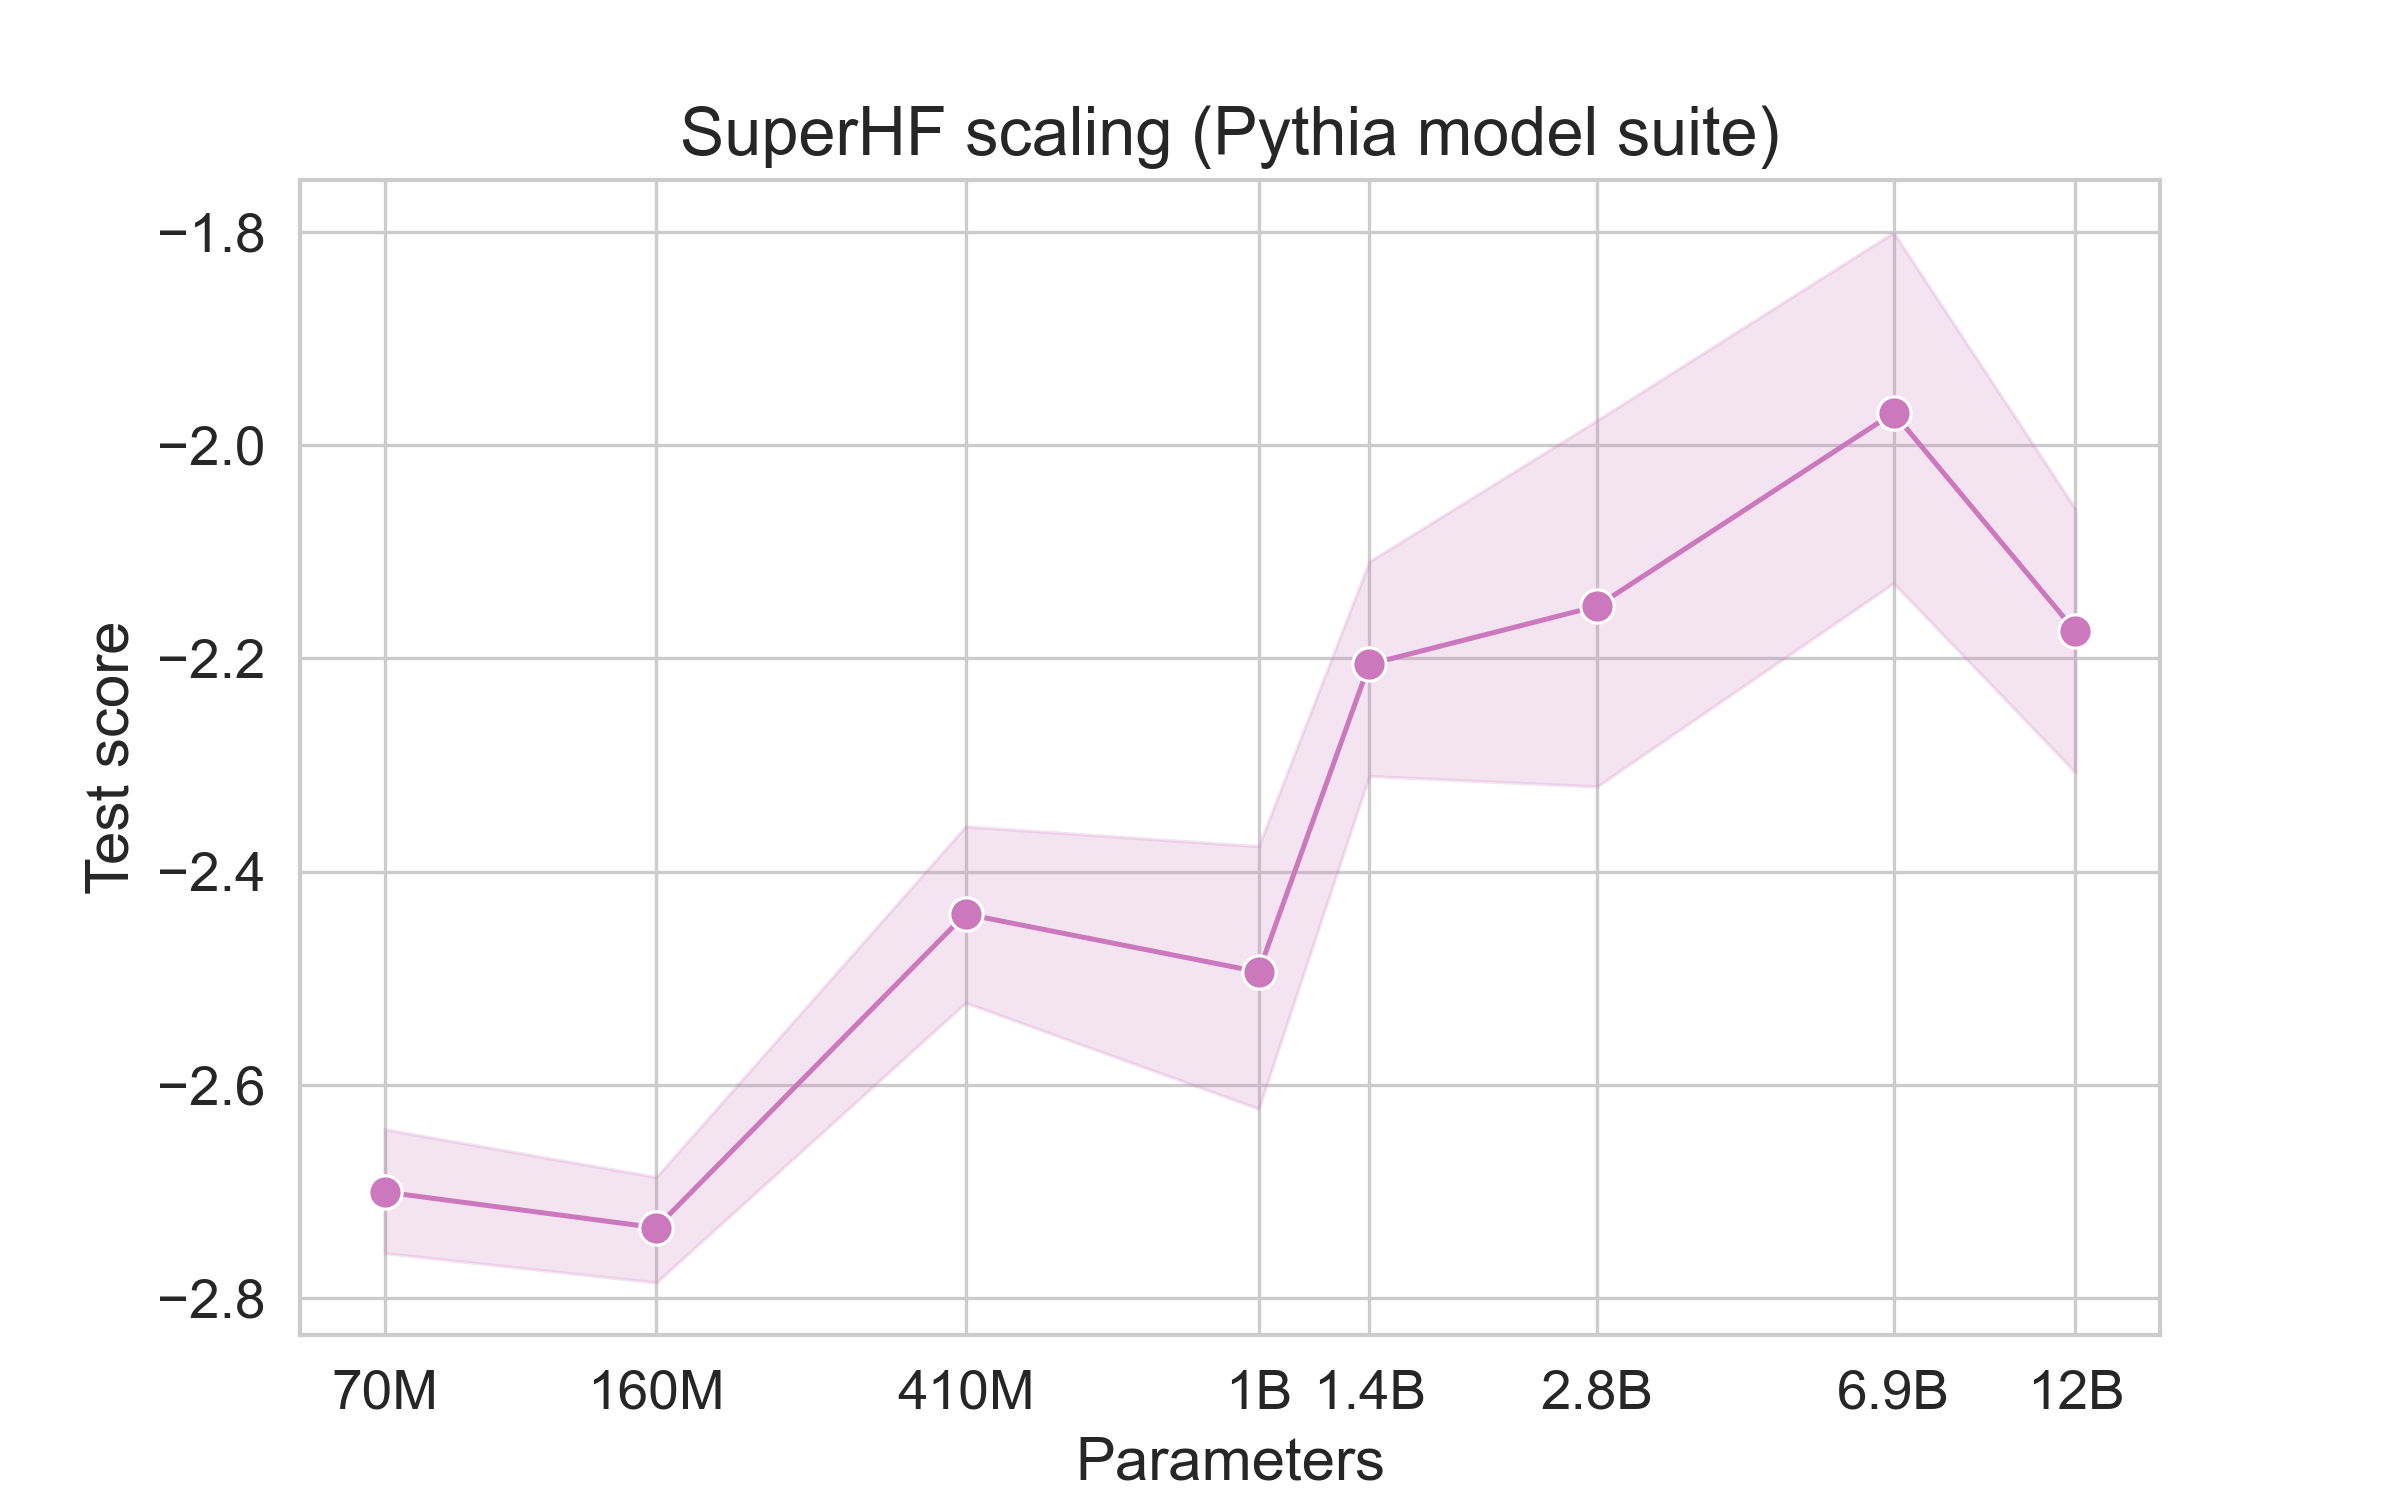
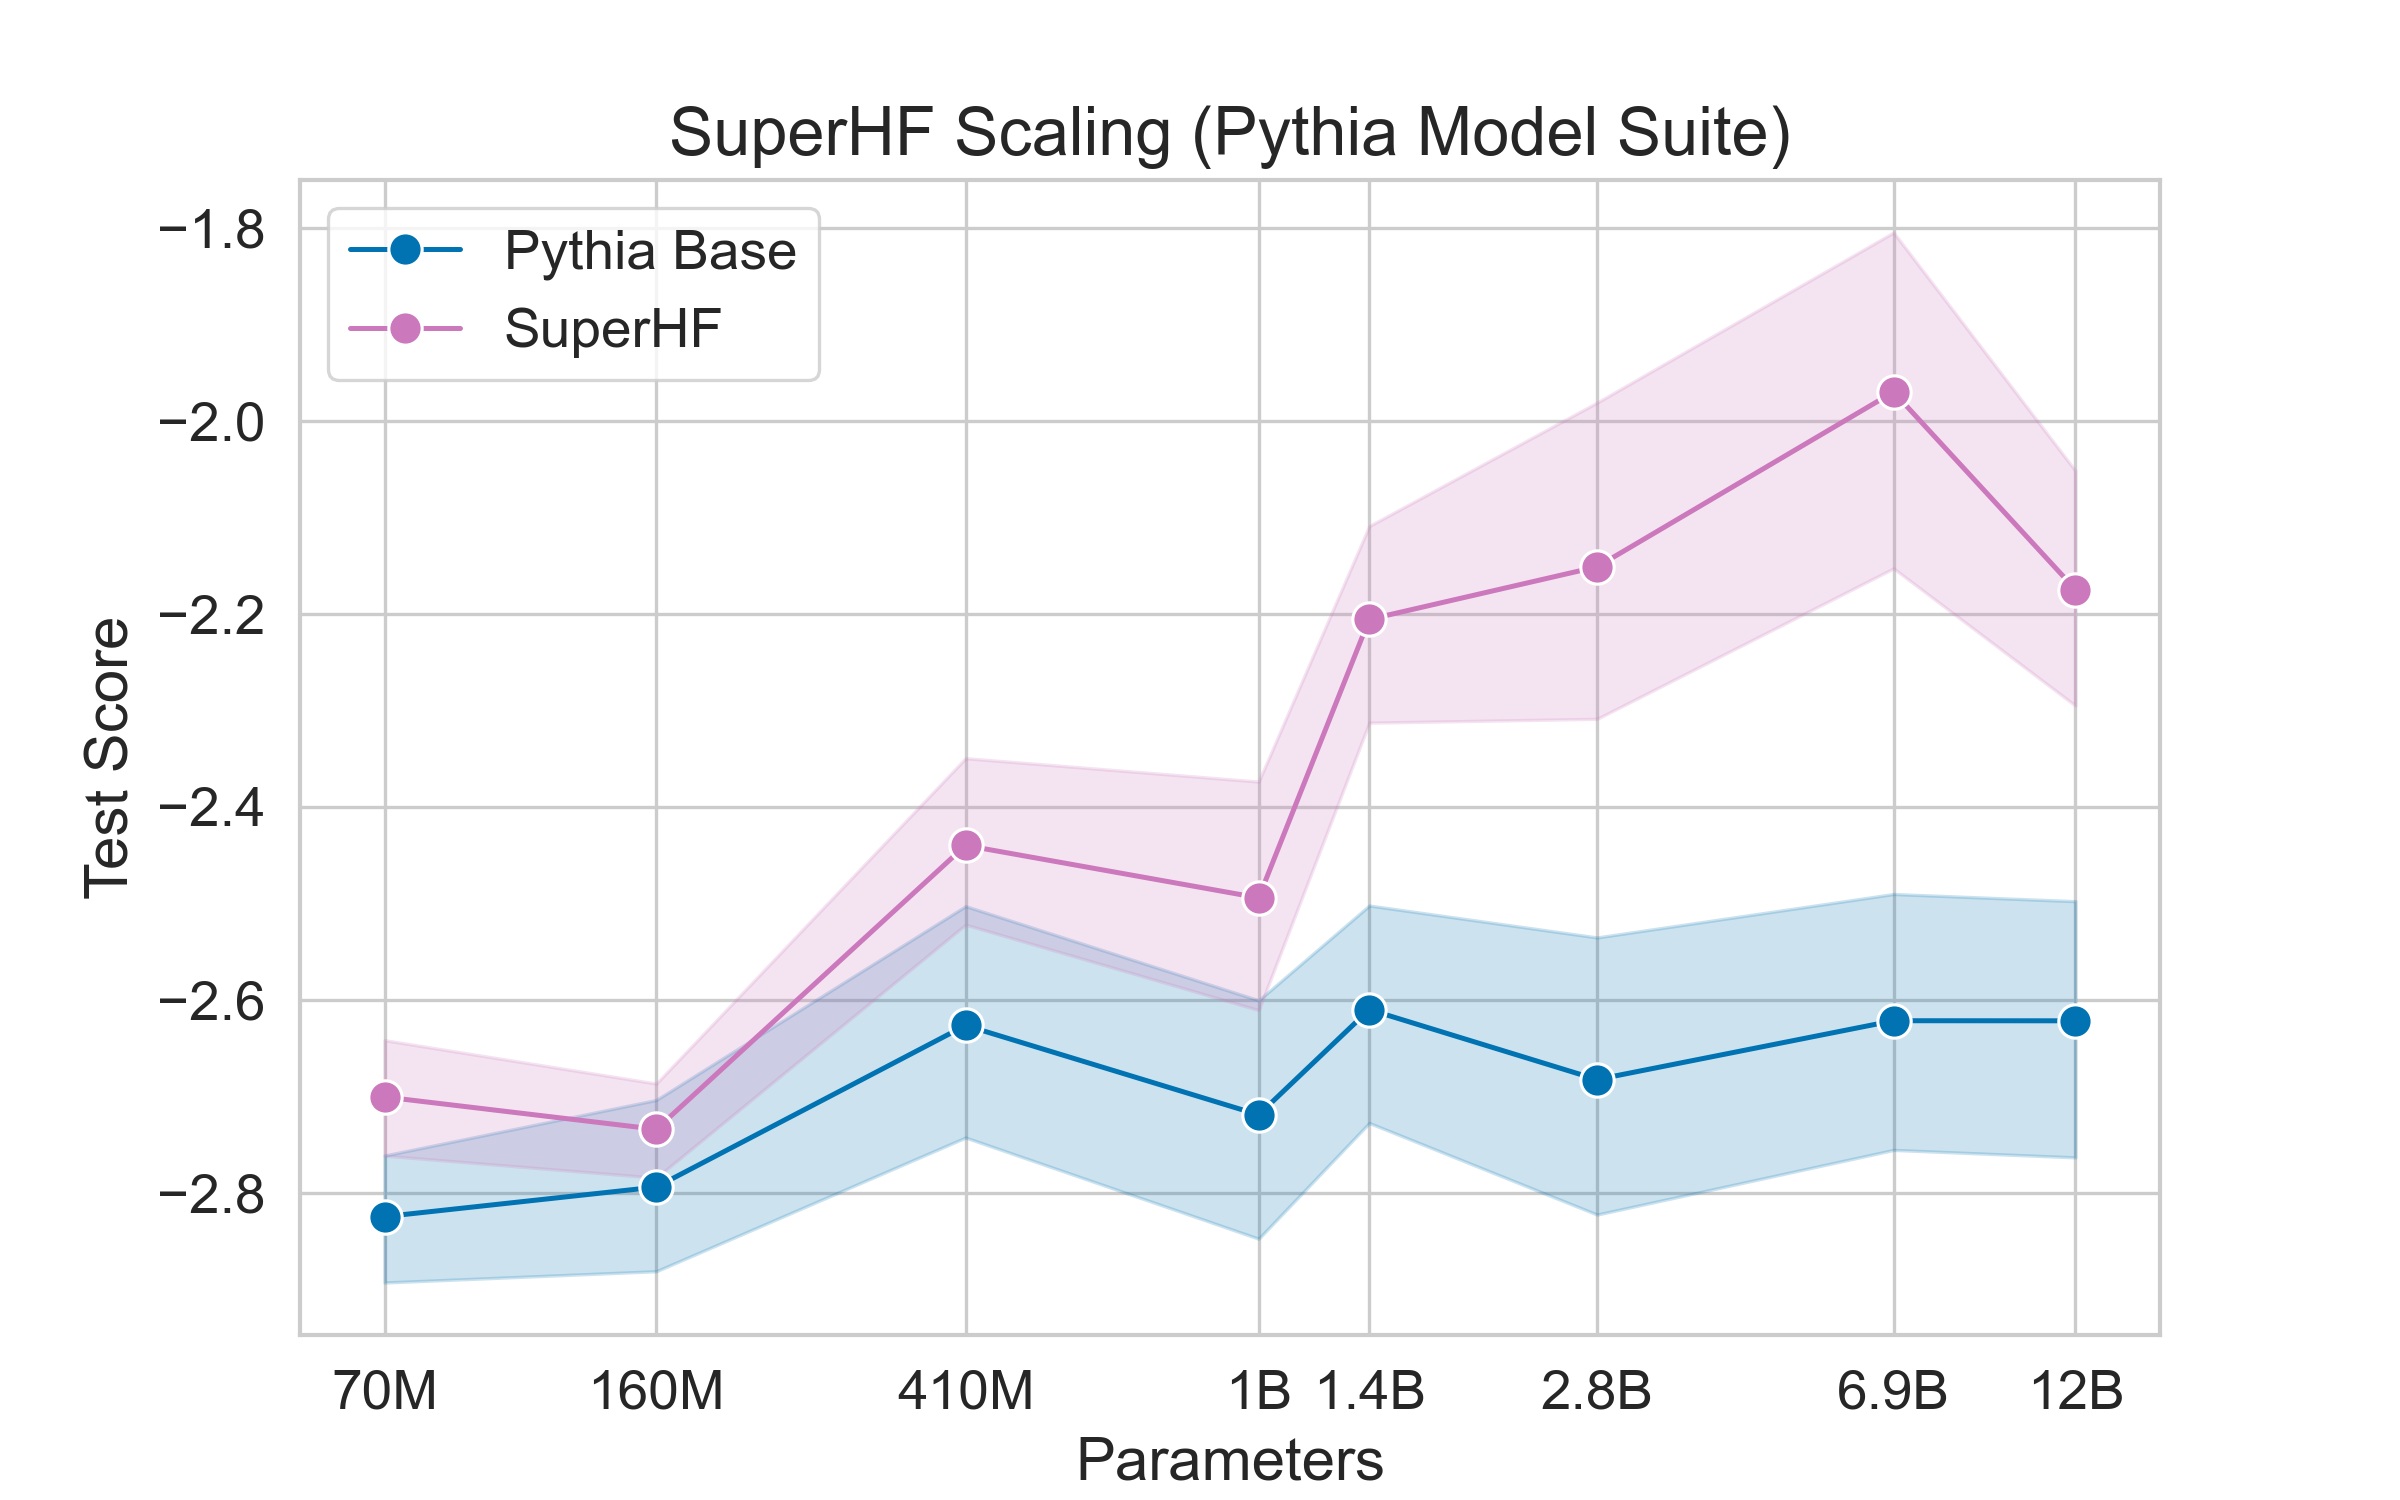
Plot base pythia models

diff --git a/charts/model_size.py b/charts/model_size.py
@@ -32,27 +32,52 @@ def main() -> None:
         "shf-pythia-2.8b.json",
         "shf-pythia-6.9b.json",
         "shf-pythia-12b.json",
+        "pythia-70m-deduped.json",
+        "pythia-160m-deduped.json",
+        "pythia-410m-deduped.json",
+        "pythia-1b-deduped.json",
+        "pythia-1.4b-deduped.json",
+        "pythia-2.8b-deduped.json",
+        "pythia-6.9b-deduped.json",
+        "pythia-12b-deduped.json",
     ]
     parameters = [7e7, 1.6e8, 4.1e8, 1e9, 1.4e9, 2.8e9, 6.9e9, 1.2e10]
 
     # Calculate plot values for data
-    all_data = []
-    for parameter, file_name in zip(parameters, file_names):
+    shf_data = []
+    pretrained_data = []
+    for parameter, file_name in zip(parameters * 2, file_names):
         file_path = f"./experiments/evaluations/test_scores/{file_name}"
         scores = get_test_scores(file_path)
         named_scores = [[parameter, score] for score in scores]
-        all_data.extend(named_scores)
+        if "shf" in file_name:
+            shf_data.extend(named_scores)
+        else:
+            pretrained_data.extend(named_scores)
 
-    dataframe = pd.DataFrame(all_data, columns=["Parameter", "Score"])
+    dataframe_shf = pd.DataFrame(shf_data, columns=["Parameter", "Score"])
+    dataframe_pretrained = pd.DataFrame(pretrained_data, columns=["Parameter", "Score"])
 
     # Create the plot
     sns.lineplot(
-        data=dataframe,
+        data=dataframe_pretrained,
         x="Parameter",
         y="Score",
         errorbar="ci",
+        label="Pythia Base",
+        color=model_type_to_palette_color("pretrained"),
+    )
+    sns.lineplot(
+        data=dataframe_shf,
+        x="Parameter",
+        y="Score",
+        errorbar="ci",
+        label="SuperHF",
         color=model_type_to_palette_color("superhf"),
     )
+
+    # Legend
+    plt.legend(loc="upper left")
 
     # Set x-axis to log
     plt.xscale("log")
@@ -62,8 +87,8 @@ def main() -> None:
 
     # Set labels and title
     plt.xlabel("Parameters")
-    plt.ylabel("Test score")
-    plt.title("SuperHF scaling (Pythia model suite)")
+    plt.ylabel("Test Score")
+    plt.title("SuperHF Scaling (Pythia Model Suite)")
 
     # Save the plot
     save_plot(OUTPUT_FILE)
